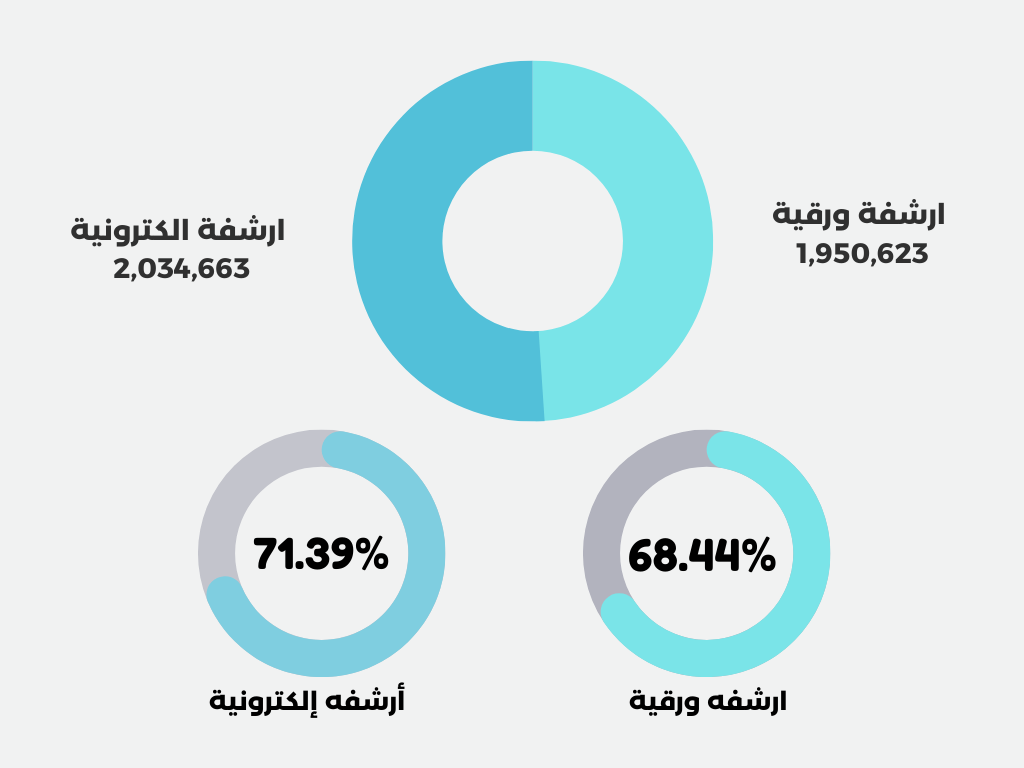
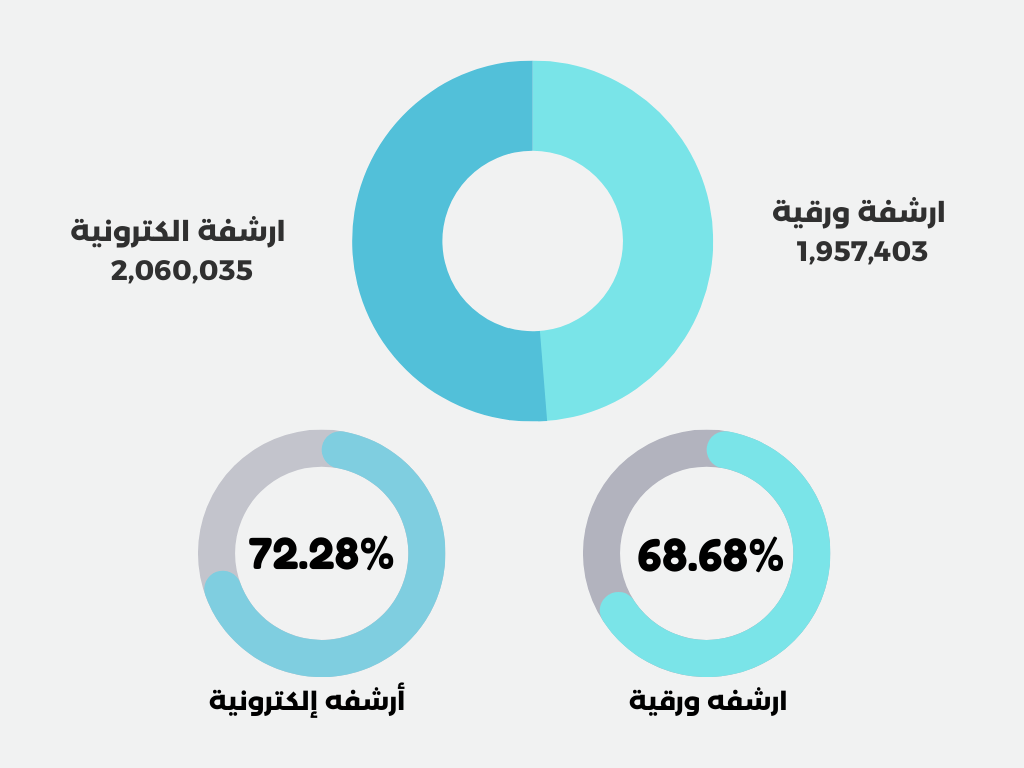
16-10-2022

diff --git a/index.html b/index.html
@@ -211,7 +211,7 @@
           <h3 style="padding-top: 20%;  text-align: center;margin-left: 10px; padding-right: 50%;">   مشروع الارشفة الورقية والالكترونية </h3>    
           <h3 style="padding-top: 4%;  text-align: center;margin-left: 10px; padding-right: 50%;">أرشيف إدارات وكالة التعمير </h3>
           <h3 style=" font-weight:lighter; padding-top: 3.5%;  text-align: center;margin-left: 10px; padding-right: 50%;">|  المرحلة الثالثة   |</h3>
-          <h5 style="font-weight:lighter;  padding-top: 9%;  text-align: center;margin-left: 10px; padding-right: 50%;">حُدث بتاريخ 9-10-2022</h>
+          <h5 style="font-weight:lighter;  padding-top: 9%;  text-align: center;margin-left: 10px; padding-right: 50%;">حُدث بتاريخ 16-10-2022</h>
 
           
          </div>
@@ -532,7 +532,7 @@
                         },
                         data: {
 
-                          series: [100, 100, 100, 100, 88.91, 87.45, 69.67, 54.68],
+                          series: [100, 100, 100, 100, 100, 94.15, 86.18, 54.68],
                           chartOptions: {
                             chart: {
                               height: 350,
@@ -558,7 +558,7 @@
                                 }
                               }
                             },
-                            labels: ['الاستحكامات وإسترجاع الأراضي', 'نزع الملكيات', 'معالجة ازدواجية الملكيات', 'إدارة علاقات المكاتب الهندسية', 'وحدة معلومات الأراضي', 'رخص البناء والمشاريع الريادية', 'الملكيات والسجل العقاري', 'الأرشيف',]
+                            labels: ['الاستحكامات وإسترجاع الأراضي', 'نزع الملكيات', 'معالجة ازدواجية الملكيات', 'الملكيات والسجل العقاري', 'إدارة علاقات المكاتب الهندسية', 'رخص البناء والمشاريع الريادية', 'وحدة معلومات الأراضي', 'الأرشيف',]
 
                           },
                           
@@ -772,17 +772,17 @@
               <a class="card-title font-weight-bolder text-success text-hover-state-dark font-size-h3 mb-4 d-block">إدارة
                 الملكيات والسجل العقاري</a>
               <div class="font-weight-bold text-muted font-size-sm"> العدد التقريبى
-                <span class="text-dark-75 font-size-h2 font-weight-bolder mr-2">100,000</span>
+                <span class="text-dark-75 font-size-h2 font-weight-bolder mr-2">69,674</span>
               </div>
               <div class="font-weight-bold text-muted font-size-sm">نسبة الانجاز
-                <span class="text-dark-75 font-size-h2 font-weight-bolder mr-2">%69.67</span>
+                <span class="text-dark-75 font-size-h2 font-weight-bolder mr-2">%100</span>
               </div>
               
               <div class="progress" style="max-width: 100%">
                 <div class="progress-bar progress-bar-striped bg-success
-                  progress-bar-stripped" style="width:69.67%">
+                  progress-bar-stripped" style="width:100%">
                 </div>
-                <small class="justify-content-center d-flex position-absolute w-100">69.67% اكتمل</small>
+                <small class="justify-content-center d-flex position-absolute w-100">100% اكتمل</small>
 
                 <div class="progress-bar progress-bar-striped yelloBG
                   progress-bar-stripped" style="width:0%">
@@ -791,9 +791,9 @@
               
               <div class="progress" style="max-width: 100%">
                 <div class="progress-bar progress-bar-striped bg-info
-                  progress-bar-stripped" style="width:69.67%">
+                  progress-bar-stripped" style="width:100%">
                 </div>
-                <small class="justify-content-center d-flex position-absolute w-100">69.67% اكتمل</small>
+                <small class="justify-content-center d-flex position-absolute w-100">100% اكتمل</small>
 
                 <div class="progress-bar progress-bar-striped bg-info2
                   progress-bar-stripped" style="width:0%">
@@ -878,23 +878,23 @@
               
               <div class="progress" style="max-width: 100%">
                 <div class="progress-bar progress-bar-striped bg-success
-                  progress-bar-stripped" style="width:84.10%">
+                  progress-bar-stripped" style="width:100%">
                 </div>
                 <small class="justify-content-center d-flex position-absolute w-100">100% اكتمل</small>
 
                 <div class="progress-bar progress-bar-striped yelloBG
-                  progress-bar-stripped" style="width:15.90%">
+                  progress-bar-stripped" style="width:0%">
                 </div>
               </div>
 
               <div class="progress" style="max-width: 100%">
                 <div class="progress-bar progress-bar-striped bg-info
-                  progress-bar-stripped" style="width:2%">
+                  progress-bar-stripped" style="width:100%">
                 </div>
                 <small class="justify-content-center d-flex position-absolute w-100">100% اكتمل</small>
 
                 <div class="progress-bar progress-bar-striped bg-info2
-                  progress-bar-stripped" style="width:98%">
+                  progress-bar-stripped" style="width:0%">
                 </div>
               </div>
 
@@ -918,23 +918,23 @@
               
               <div class="progress" style="max-width: 100%">
                 <div class="progress-bar progress-bar-striped bg-success
-                  progress-bar-stripped" style="width:82.22%">
+                  progress-bar-stripped" style="width:87.45%">
                 </div>
-                <small class="justify-content-center d-flex position-absolute w-100">87.45% اكتمل</small>
+                <small class="justify-content-center d-flex position-absolute w-100">94.15% اكتمل</small>
 
                 <div class="progress-bar progress-bar-striped yelloBG
-                  progress-bar-stripped" style="width:5.23%">
+                  progress-bar-stripped" style="width:6.7%">
                 </div>
               </div>
 
               <div class="progress" style="max-width: 100%">
                 <div class="progress-bar progress-bar-striped bg-info
-                  progress-bar-stripped" style="width:53.15%">
+                  progress-bar-stripped" style="width:62.35%">
                 </div>
                 <small class="justify-content-center d-flex position-absolute w-100">62.35% اكتمل</small>
 
                 <div class="progress-bar progress-bar-striped bg-info2
-                  progress-bar-stripped" style="width:9.6%">
+                  progress-bar-stripped" style="width:0%">
                 </div>
               </div>
 
@@ -950,30 +950,30 @@
             <div class="card-body my-3  text-center">
               <a class="card-title font-weight-bolder text-success text-hover-state-dark font-size-h3 mb-4 d-block">وحدة معلومات الأراضي</a>
               <div class="font-weight-bold text-muted font-size-sm"> العدد التقريبى
-                <span class="text-dark-75 font-size-h2 font-weight-bolder mr-2">709,429</span>
+                <span class="text-dark-75 font-size-h2 font-weight-bolder mr-2">739,755<span>
               </div>
               <div class="font-weight-bold text-muted font-size-sm">نسبة الانجاز
-                <span class="text-dark-75 font-size-h2 font-weight-bolder mr-2">%88.23</span>
+                <span class="text-dark-75 font-size-h2 font-weight-bolder mr-2">%86.18</span>
               </div>
               <div class="progress" style="max-width: 100%">
                 <div class="progress-bar progress-bar-striped bg-success
-                  progress-bar-stripped" style="width:87.15%">
+                  progress-bar-stripped" style="width:83.18%">
                 </div>
-                <small class="justify-content-center d-flex position-absolute w-100">88.23% اكتمل</small>
+                <small class="justify-content-center d-flex position-absolute w-100">86.18% اكتمل</small>
 
                 <div class="progress-bar progress-bar-striped yelloBG
-                  progress-bar-stripped" style="width:1.08%">
+                  progress-bar-stripped" style="width:3%">
                 </div>
               </div>
               
                 <div class="progress" style="max-width: 100%">
                 <div class="progress-bar progress-bar-striped bg-info
-                  progress-bar-stripped" style="width:87.15%">
+                  progress-bar-stripped" style="width:83.18%">
                 </div>
-                <small class="justify-content-center d-flex position-absolute w-100">88.23% اكتمل</small>
+                <small class="justify-content-center d-flex position-absolute w-100">86.18% اكتمل</small>
 
                 <div class="progress-bar progress-bar-striped bg-info2
-                  progress-bar-stripped" style="width:1.08%">
+                  progress-bar-stripped" style="width:3%">
                 </div>
               </div>
 
